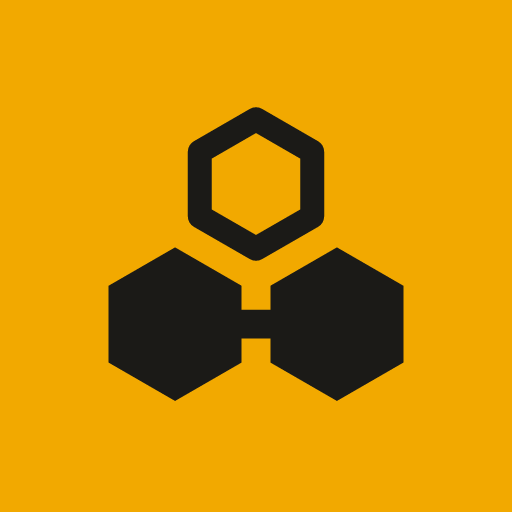
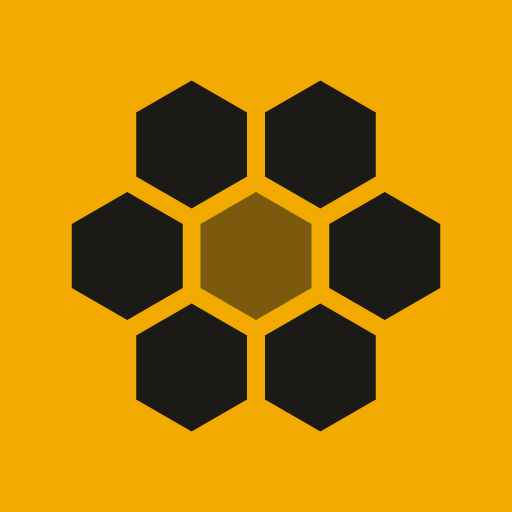
feat(marca): símbolo do Colmatch vira uma colmeia
Sete células hexagonais em favo, a do centro em destaque, no componente
Logo, no icon.svg, no favicon.ico (16/32/48), no PNG 32, no apple-touch e
nos PNGs 192/512 do manifest, com todo o favo a até 14,6 do centro num
quadro de 40 (dentro da área segura maskable).

Changed region(s): [[0.125, 0.1562, 0.875, 0.8438]]

diff --git a/frontend/components/ui/Logo.tsx b/frontend/components/ui/Logo.tsx
@@ -2,7 +2,16 @@ import { NOME_REDE } from "@/lib/marca";
 
 export const CELULA_A = "M11.57 19.30L18.50 23.30L18.50 31.30L11.57 35.30L4.64 31.30L4.64 23.30Z";
 export const CELULA_B = "M28.43 19.30L35.36 23.30L35.36 31.30L28.43 35.30L21.50 31.30L21.50 23.30Z";
-export const CELULA_C = "M20.00 5.45L26.28 9.08L26.28 16.33L20.00 19.95L13.72 16.33L13.72 9.08Z";
+// Sete células pointy-top formam uma colmeia compacta centrada no quadro.
+export const CELULAS_COLMEIA: string[] = [
+  "M20.00 15.00L24.33 17.50L24.33 22.50L20.00 25.00L15.67 22.50L15.67 17.50Z",
+  "M30.06 15.00L34.39 17.50L34.39 22.50L30.06 25.00L25.73 22.50L25.73 17.50Z",
+  "M25.03 23.71L29.36 26.21L29.36 31.21L25.03 33.71L20.70 31.21L20.70 26.21Z",
+  "M14.97 23.71L19.30 26.21L19.30 31.21L14.97 33.71L10.64 31.21L10.64 26.21Z",
+  "M9.94 15.00L14.27 17.50L14.27 22.50L9.94 25.00L5.61 22.50L5.61 17.50Z",
+  "M14.97 6.29L19.30 8.79L19.30 13.79L14.97 16.29L10.64 13.79L10.64 8.79Z",
+  "M25.03 6.29L29.36 8.79L29.36 13.79L25.03 16.29L20.70 13.79L20.70 8.79Z",
+];
 
 type Variante = "simbolo" | "completo";
 type Tamanho = "sm" | "md" | "lg";
@@ -25,10 +34,9 @@ function Simbolo({ tamanho, className, acessivel }: { tamanho: Tamanho; classNam
       aria-hidden={acessivel ? undefined : "true"}
       className={className}
     >
-      <path d={CELULA_A} fill="var(--marca)" />
-      <path d={CELULA_B} fill="var(--marca)" />
-      <rect x="18" y="25.8" width="4" height="3" fill="var(--marca)" />
-      <path d={CELULA_C} fill="none" stroke="currentColor" strokeWidth={1.5} />
+      {CELULAS_COLMEIA.map((d, indice) => (
+        <path key={d} d={d} fill={indice === 0 ? "currentColor" : "var(--marca)"} />
+      ))}
     </svg>
   );
 }
